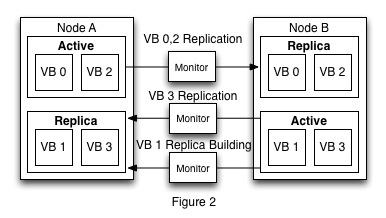
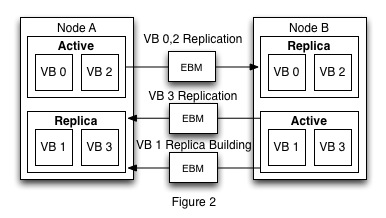
Change monitor to EBucketMigrator in vbucket-move.md

Changed region(s): [[0.4352, 0.7156, 0.5907, 0.8257], [0.4352, 0.4679, 0.5907, 0.6055], [0.4352, 0.2752, 0.5596, 0.3303]]

diff --git a/architecture/vbucket-move.md b/architecture/vbucket-move.md
@@ -1,17 +1,17 @@
 
 ##VBucket Move (Version 2.x)
 
-In order to demonstrate a vbucket takeover in Couchbase let's initially assume that we have a two node cluster with four vbuckets. This cluster is shown with it's replication streams in figure 1 below. The user now decides that they want to remove node B and as a result vbuckets 1 and 3 must be transferred to Node A. In this example let's also assume that the cluster manager is only allowed to move on eVBucket at a time and the cluster manager decides that it will move VBucket 1 first.
+In order to demonstrate a vbucket takeover in Couchbase let's initially assume that we have a two node cluster with four vbuckets. This cluster is shown with it's replication streams in figure 1 below. The user now decides that they want to remove node B and as a result vbuckets 1 and 3 must be transferred to Node A. In this example let's also assume that the cluster manager is only allowed to move one VBucket at a time and the cluster manager decides that it will move VBucket 1 first.
 
 ![Figure 1](../images/vb_move_figure_1.jpg)
 
-In order to do rebalance the cluster manager must first remove VBucket 1 from the replication stream that replicates items from Node B to Node A. It does this by issuing a Change VBucket Filter command to Node B which specifies a new set of VBuckets that should be sent over a given replication stream. In this example the new VBucket filter will only contain VBucket 3. After this command is sent the cluster manager then waits until the command is seen by the process monitoring the replication stream that was changed in order to make sure that the VBucket has successfully been removed from that stream.
+In order to do rebalance the cluster manager must first remove VBucket 1 from the replication stream that replicates items from Node B to Node A. It does this by issuing a Change VBucket Filter command to Node B which specifies a new set of VBuckets that should be sent over a given replication stream. In this example the new VBucket filter will only contain VBucket 3. After this command is sent the cluster manager then waits until the command is seen by the EBucketMigrator(EBM) process monitoring the replication stream that was changed in order to make sure that the VBucket has successfully been removed from that stream.
 
 After a successful VBucket filter change the cluster manager creates a replication building stream from Node B to Node A for VBucket 1. In our example there are not any replicas because we are going from two nodes to one, but if we did need to create replicas for this VBucket then we would need to create a replica building stream from node B to each node that would contain a replica for VBucket 1. The result of the replica building process is shown in figure 2.
 
 ![Figure 2](../images/vb_move_figure_2.jpg)
 
-If the replica building process requires backfill then the cluster manager needs to wait until the monitor process sees a message signifying that backfill has completed. If there are multiple replica building streams for a given Vbucket then cluster manager needs to make sure that backfill has completed for each stream before the VBucket move can complete. Once backfill is completed for all of the replica building streams for VBucket 1 the cluster manager will begin doing two things in parallel. Since the majority of the time needed to move a VBucket typically takes place in the backfill phase the cluster manager will start a VBucket move process for the next VBucket (in this case VBucket 3) that needs to be moved. We start this move because a majority of the data for VBucket 1 has already been sent to Node A and we can be confident that we will not be overloading any nodes or overloading the network by starting another VBucket move.
+If the replica building process requires backfill then the cluster manager needs to wait until the EBucketMigrator sees a message signifying that backfill has completed. If there are multiple replica building streams for a given Vbucket then cluster manager needs to make sure that backfill has completed for each stream before the VBucket move can complete. Once backfill is completed for all of the replica building streams for VBucket 1 the cluster manager will begin doing two things in parallel. Since the majority of the time needed to move a VBucket typically takes place in the backfill phase the cluster manager will start a VBucket move process for the next VBucket (in this case VBucket 3) that needs to be moved. We start this move because a majority of the data for VBucket 1 has already been sent to Node A and we can be confident that we will not be overloading any nodes or overloading the network by starting another VBucket move.
 
 While the next VBucket move happens in the background the cluster manager continues the VBucket move for VBucket 1. Since backfill has completed the cluster manager now needs to get the indexes on Node A and B to be up to date before the  move can complete. To do this the cluster manager will force the creation of a checkpoint on Node B for VBucket 1 and then it will wait until the the forced checkpoint has been persisted on Node A. The cluster manager does this by issueing a Persist Checkpoint command to Node A. This command contains the checkpoint number that the cluster manager wants to have persisted and Node A and the command will not return a response until either the command times out or the checkpoint has been successfully persisted. The reason for doing this is to make sure that a majority of the items that are moved for this VBucket are perisisted to disk and therefore are ready to be indexed. After the items all are on disk the cluster manager will  wait for the indexer on Node A to index all of the items up to the forced checkpoint. This ensures that Vbucket 1 on Node A is close to being up to date with VBucket 1 on Node B.
 
@@ -19,7 +19,7 @@ Now that the indexes are close to being the same we pause indexing and force the
 
 ![Figure 3](../images/vb_move_figure_3.jpg)
 
-Now that the index on Node A has at least the same items as the index on Node B the cluster manager can remove the replica building tap stream and start a VBucket takeover. In order successfully close the replica building stream we must send a no-op mesage in order to make sure that all of the data that is currently on the wire has successfully made it to it's destination. Once the monitor sees the response for the no-op message the cluster manager deregisters the tap connection on Node B (the connection is always killed on the producer side) and create a new tap-takeover connection. This connection will first send a message to change the state of VBucket 1 on Node A from replica to pending and then send any remaining items that haven't been replicated from Node B to Node A. After all remaining items have been sent the tap-takeover stream sets the VBucket on Node B from active to dead state and then again sends over any items that may not have been replicated yet. The items sent here are guaranteed to be the last of the items that need to be sent because a Vbucket in dead state cannot receive any new items. After these items have been processed by Node A another set vbucket message is sent over the tap-takeover stream from Node B to Node A telling Node A to set it's Vbucket state from pending to active and the connection is terminated.
+Now that the index on Node A has at least the same items as the index on Node B the cluster manager can remove the replica building tap stream and start a VBucket takeover. In order successfully close the replica building stream we must send a no-op mesage in order to make sure that all of the data that is currently on the wire has successfully made it to it's destination. Once the EBucketMigrator sees the response for the no-op message the cluster manager deregisters the tap connection on Node B (the connection is always killed on the producer side) and create a new tap-takeover connection. This connection will first send a message to change the state of VBucket 1 on Node A from replica to pending and then send any remaining items that haven't been replicated from Node B to Node A. After all remaining items have been sent the tap-takeover stream sets the VBucket on Node B from active to dead state and then again sends over any items that may not have been replicated yet. The items sent here are guaranteed to be the last of the items that need to be sent because a Vbucket in dead state cannot receive any new items. After these items have been processed by Node A another set vbucket message is sent over the tap-takeover stream from Node B to Node A telling Node A to set it's Vbucket state from pending to active and the connection is terminated.
 
 At this point the VBucket has been transferred from Node B to Node A and all that is left to do is for the cluster manager to change the indexer states on Node A and Node B and to update it's cluster map to reflect the VBucket move.
 
@@ -29,4 +29,4 @@ At this point the VBucket has been transferred from Node B to Node A and all tha
 
 2. There is no easy way to kill a tap stream on the consumer side.
 
-3. We need to create a bunch of different tap streams in order to do a VBucket move. Creating an monioring multiple connections adds overhead. It would be nice if we could create on connection an just manipulate what that connection sends.
+3. We need to create a bunch of different tap streams in order to do a VBucket move. Creating and monioring multiple connections adds overhead. It would be nice if we could create on connection an just manipulate what that connection sends.
